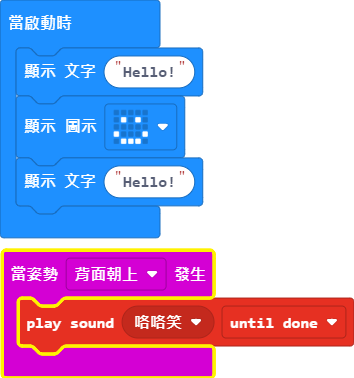
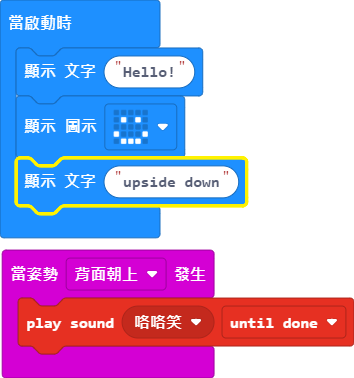
更新 main.blocks, main.ts

diff --git a/main.ts b/main.ts
@@ -3,4 +3,4 @@ input.onGesture(Gesture.ScreenDown, function () {
 })
 basic.showString("Hello!")
 basic.showIcon(IconNames.Happy)
-basic.showString("Hello!")
+basic.showString("upside down")
